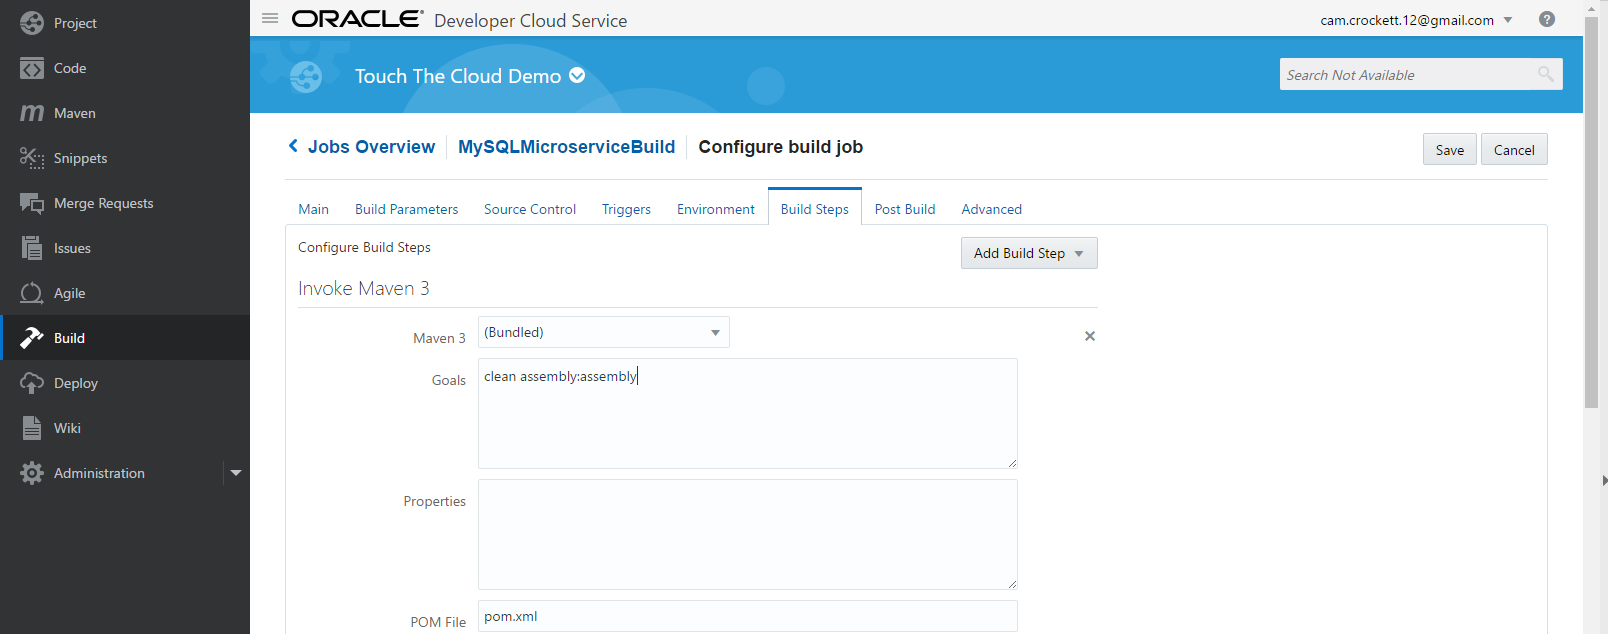
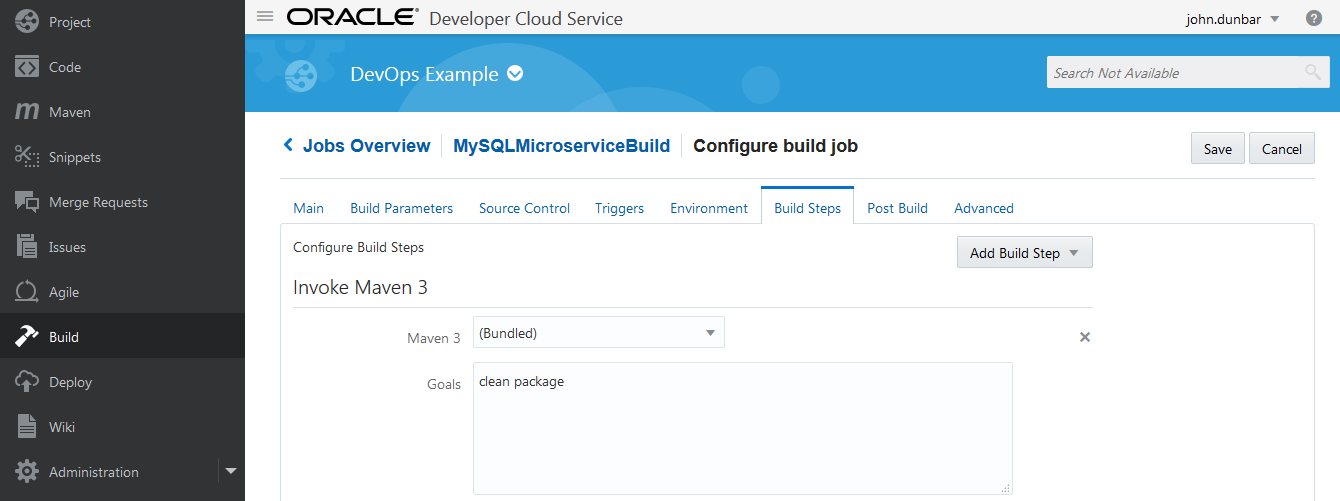
Removed mention of deprecated assembly:assembly goal

diff --git a/LabGuide200.md b/LabGuide200.md
@@ -111,11 +111,7 @@ https://github.com/c-rocket/TTC-MySQLMicroservice.git
 
 ![](images/200/step09.png)
 
-- Enter the maven goal:
-
-```maven
-clean assembly:assembly
-```
+- Accept the default settings
 
 ![](images/200/step10.png)
 
@@ -174,9 +170,9 @@ Artifact: target/catalog-microservice-dist.zip
 
 ### **STEP 5**: Verify Deployment
 
-- Open your main Dashboard Console. Select Application Container and open the service console
+- Click the Deploy to ACCS link on the MySQLMicroserviceDeploy Deployment to navigate to the Application Container Cloud Service Console
 
-![](images/100/step27.png)
+![](images/200/step20a.png)
 
 - You will now see the Deployed MySQL Microservice Application Running
 
